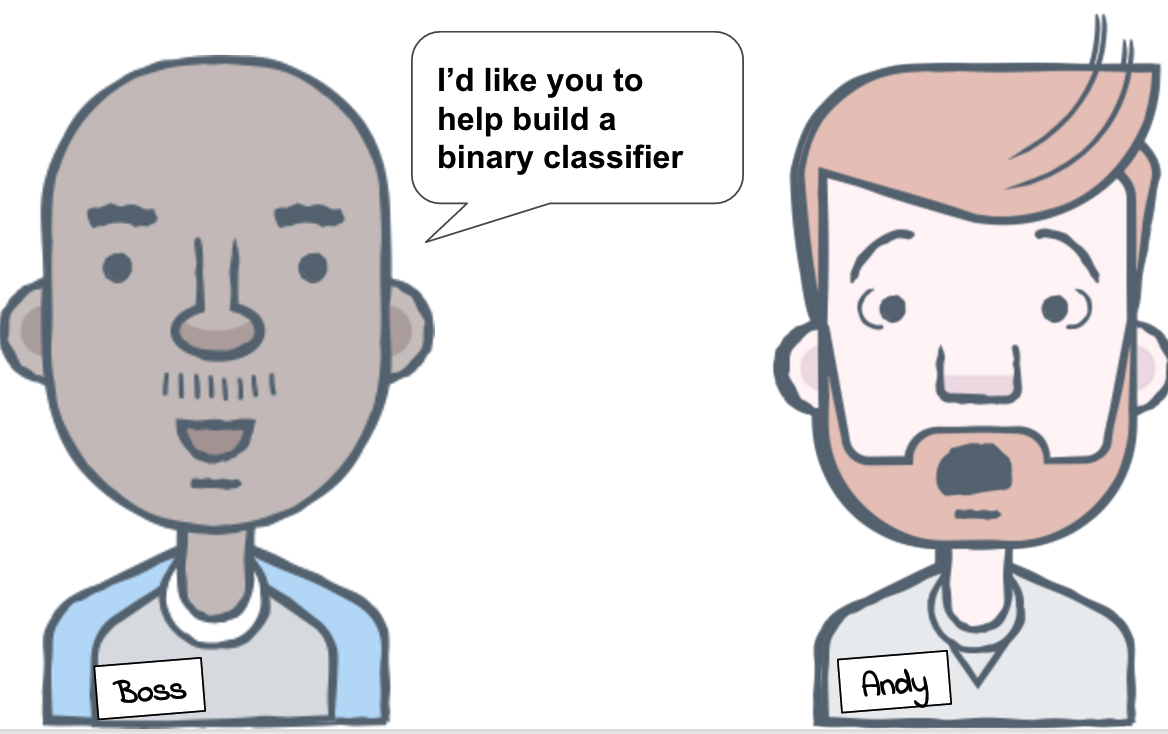
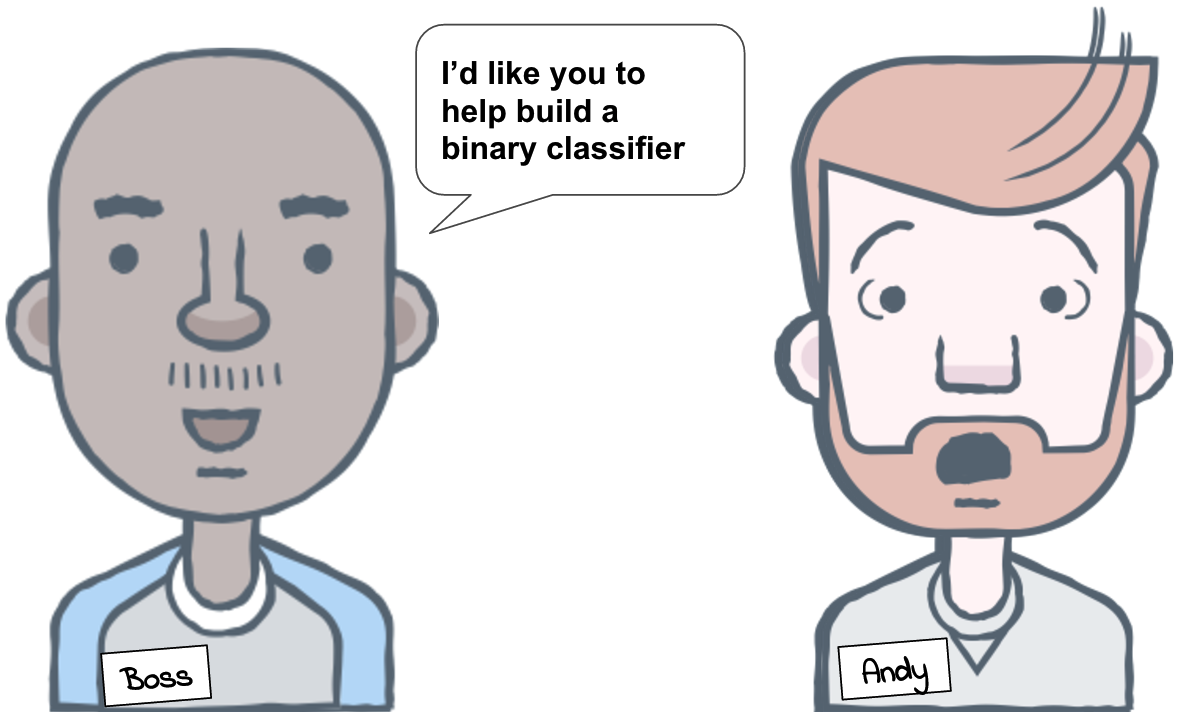
slight sizing updates

diff --git a/slides/autoCaret_pres.html b/slides/autoCaret_pres.html
@@ -53,7 +53,7 @@ class: left
 
 # Analyst Andy's boss wants him to be more like Data Scientist Scott
 
-&lt;img src="images/slide3_boss_andy.png" width="100%" height="100%" align="middle"/&gt;
+&lt;img src="images/slide3_boss_andy.png" width="103%" height="103%" align="middle"/&gt;
 
 ---
 
